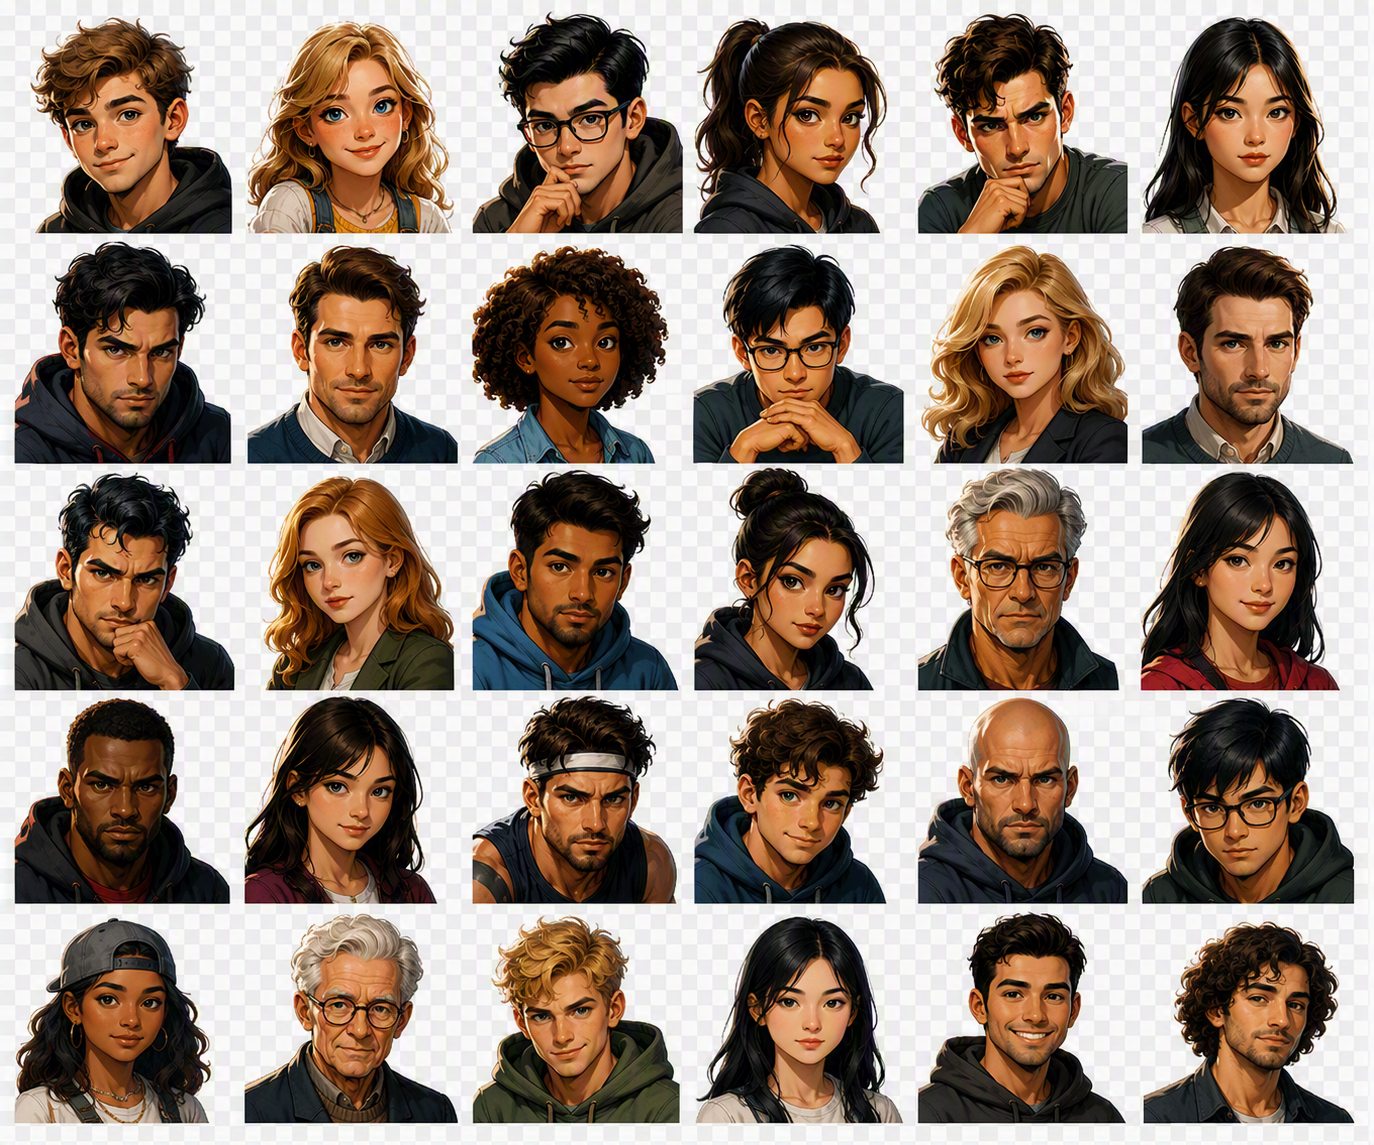
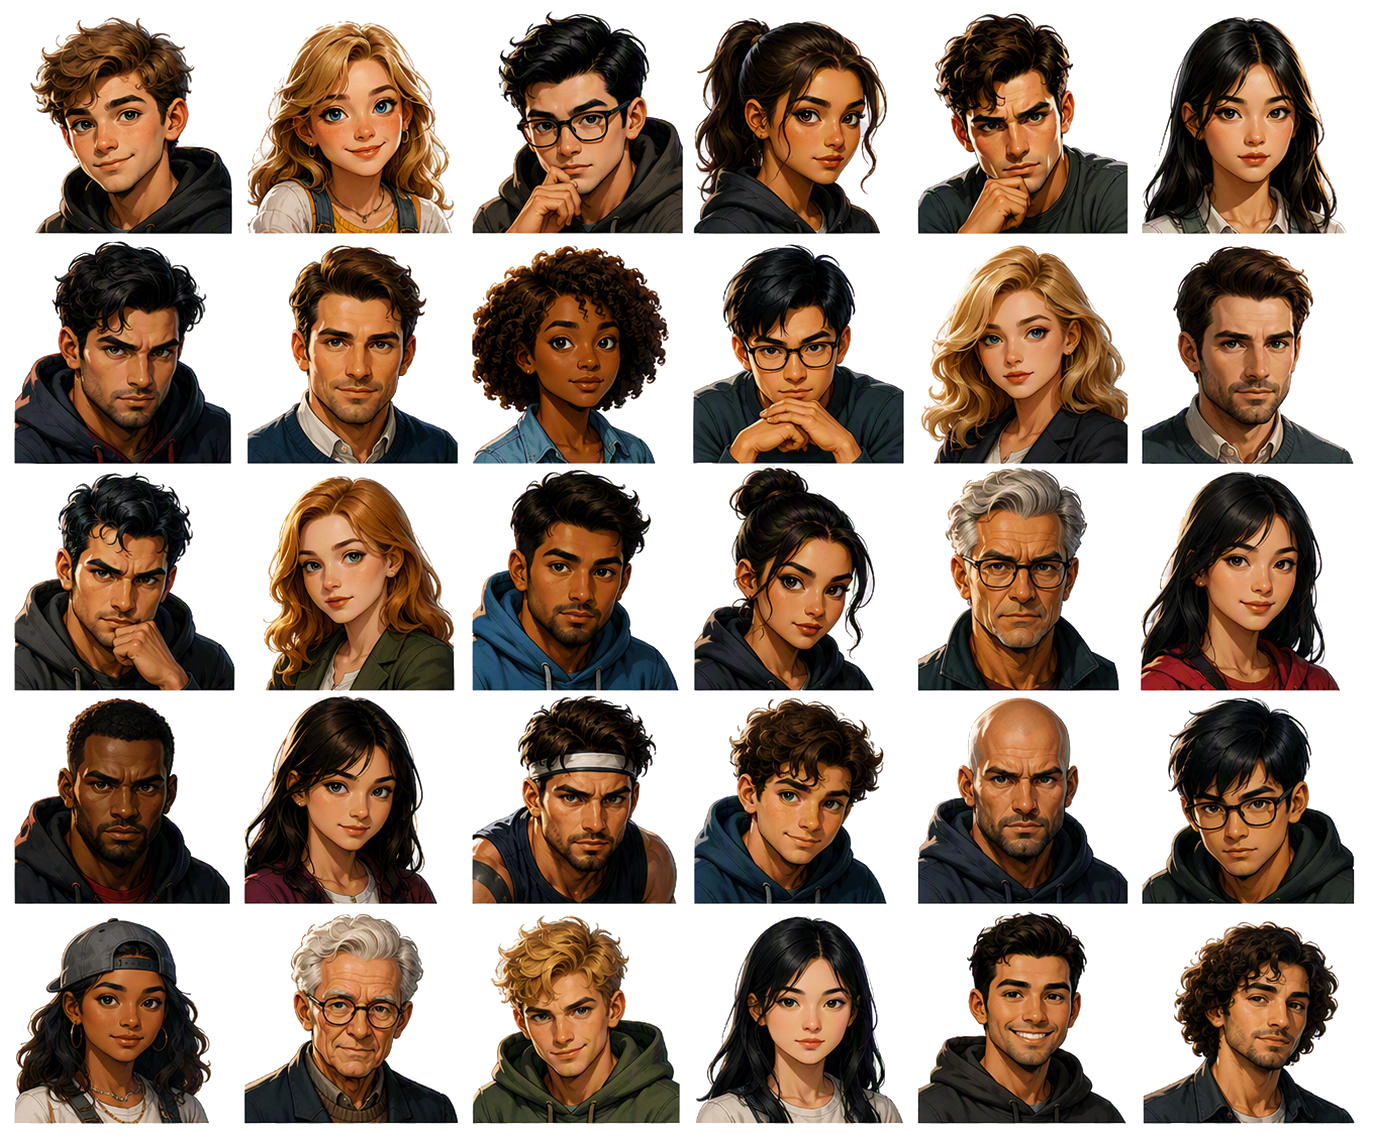
fix: readable links in dark mode, light portrait backdrop, in-app AI setup help
- Plain links had no style and fell back to the browser's blue and purple,
  unreadable on the dark theme; they now use the theme's primary colour.
- The coach and bot portrait sheets had a checkerboard baked into the pixels.
  scripts/clean-avatar-sheets.mjs makes it real transparency, and the avatars
  sit on a pale gradient (--avatar-backdrop) that stays light in dark mode.
- Settings > AI setup links to the step-by-step key guide, the free-usage
  option and the key-safety page.

diff --git a/apps/web/src/features/settings/SettingsPage.test.tsx b/apps/web/src/features/settings/SettingsPage.test.tsx
@@ -51,6 +51,18 @@ describe('SettingsPage', () => {
     expect(screen.getByLabelText('Voice model (optional)')).toHaveValue('gpt-4o-mini-tts');
   });
 
+  test('points the AI setup at the step-by-step guide, the free option and the key-safety page, in a new tab', async () => {
+    const fetchMock = vi.fn((path: string, init?: RequestInit) => defaultFetch(path, init) ?? (() => { throw new Error(`unexpected fetch: ${path}`); })());
+    renderSettings(fetchMock);
+    await screen.findByRole('heading', { name: 'Settings', level: 1 });
+    const setup = screen.getByRole('region', { name: 'API keys' });
+    const guide = within(setup).getByRole('link', { name: /step-by-step/i });
+    expect(guide).toHaveAttribute('href', '/openai-key');
+    expect(guide).toHaveAttribute('target', '_blank');
+    expect(within(setup).getByRole('link', { name: /free usage/i })).toHaveAttribute('href', '/openai-key#free');
+    expect(within(setup).getByRole('link', { name: /keeps? your key safe|how we handle/i })).toHaveAttribute('href', '/keys');
+  });
+
   test('saves the endpoint, models, key and unlock phrase as one setup, gated by a passing test, across the connect-then-unlock-phrase wizard', async () => {
     const testResponse = {
       protocol: 'openai-chat',

diff --git a/apps/web/src/features/settings/SettingsPage.tsx b/apps/web/src/features/settings/SettingsPage.tsx
@@ -15,6 +15,7 @@ import { ConfirmDialog } from '../../components/ConfirmDialog.js';
 import { useShowLegalMoveDots } from '../../hooks/useShowLegalMoveDots.js';
 import { useUnlockLlmSetup } from '../../hooks/useUnlockLlmSetup.js';
 import { BandSelect } from './BandSelect.js';
+import { AiSetupHelp } from './AiSetupHelp.js';
 import { LlmSetupForm } from './LlmSetupForm.js';
 import { CoachPersonaSelect } from './CoachPersonaSelect.js';
 import { EngineModeSelect } from './EngineModeSelect.js';
@@ -225,6 +226,7 @@ export function SettingsPage(): ReactNode {
       <section id="settings-api-keys" aria-label="API keys" className="card">
         <h2>AI setup</h2>
         <p>Your endpoint and API key are tested, encrypted with your unlock phrase, and kept available only while you are active. We never show the key again.</p>
+        <AiSetupHelp />
         <LlmSetupForm
           key={`${llmSetup.configured}-${llmSetup.unlocked}-${llmSetup.protocol ?? 'none'}`}
           status={llmSetup}

diff --git a/apps/web/src/styles/base.test.ts b/apps/web/src/styles/base.test.ts
@@ -1,0 +1,19 @@
+import { readFileSync } from 'node:fs';
+import { dirname, join } from 'node:path';
+import { fileURLToPath } from 'node:url';
+import { describe, expect, test } from 'vitest';
+
+const css = readFileSync(join(dirname(fileURLToPath(import.meta.url)), 'base.css'), 'utf8');
+
+/** The browser's own link colours are #0000ee and #551a8b, unreadable on the
+ * dark theme. Any link without a class of its own must take the theme's colour,
+ * visited or not. */
+describe('base link styling', () => {
+  test('colours every plain link, visited or not, from the theme primary', () => {
+    expect(css).toMatch(/\ba,\s*a:visited\s*\{[^}]*color:\s*var\(--color-primary\)/);
+  });
+
+  test('has a hover colour from the theme too', () => {
+    expect(css).toMatch(/a:hover\s*\{[^}]*color:\s*var\(--color-primary-hover\)/);
+  });
+});

diff --git a/apps/web/src/features/settings/AiSetupHelp.tsx b/apps/web/src/features/settings/AiSetupHelp.tsx
@@ -1,0 +1,16 @@
+import type { ReactNode } from 'react';
+
+/** Where to send someone who has no AI key yet. The pages are the public,
+ * logged-out ones (apps/web/public), opened in a new tab so a half-filled
+ * setup form is not lost. */
+export function AiSetupHelp(): ReactNode {
+  return (
+    <p className="settings-page__hint">
+      No key yet? Follow the{' '}
+      <a href="/openai-key" target="_blank" rel="noopener noreferrer">step-by-step guide to getting one</a>
+      , which also covers{' '}
+      <a href="/openai-key#free" target="_blank" rel="noopener noreferrer">free usage and what it costs in privacy</a>
+      . <a href="/keys" target="_blank" rel="noopener noreferrer">How we handle your key</a> explains what we do and cannot promise.
+    </p>
+  );
+}

diff --git a/apps/web/src/components/BotAvatar.css b/apps/web/src/components/BotAvatar.css
@@ -8,10 +8,10 @@
   border: 2px solid var(--color-surface);
   border-radius: 50%;
   background-color: var(--color-surface-strong);
-  background-image: url('/brand/bots.png');
+  background-image: url('/brand/bots.png'), var(--avatar-backdrop);
   background-repeat: no-repeat;
-  background-size: var(--bot-avatar-size-x) var(--bot-avatar-size-y);
-  background-position: var(--bot-avatar-x) var(--bot-avatar-y);
+  background-size: var(--bot-avatar-size-x) var(--bot-avatar-size-y), 100% 100%;
+  background-position: var(--bot-avatar-x) var(--bot-avatar-y), 0 0;
   box-shadow: 0 1px 3px rgb(18 28 22 / 18%), 0 0 0 1px rgb(18 28 22 / 8%);
   vertical-align: middle;
 }

diff --git a/apps/web/src/components/CoachAvatar.css b/apps/web/src/components/CoachAvatar.css
@@ -10,10 +10,10 @@
   border: 2px solid var(--color-surface);
   border-radius: 50%;
   background-color: var(--color-surface-strong);
-  background-image: url('/brand/coaches.png');
+  background-image: url('/brand/coaches.png'), var(--avatar-backdrop);
   background-repeat: no-repeat;
-  background-size: 400% 400%;
-  background-position: var(--coach-avatar-x) var(--coach-avatar-y);
+  background-size: 400% 400%, 100% 100%;
+  background-position: var(--coach-avatar-x) var(--coach-avatar-y), 0 0;
   box-shadow: 0 1px 3px rgb(18 28 22 / 18%), 0 0 0 1px rgb(18 28 22 / 8%);
   vertical-align: middle;
 }

diff --git a/apps/web/src/styles/tokens.css b/apps/web/src/styles/tokens.css
@@ -22,6 +22,11 @@
   --color-primary-tint: #f3f8f2;
   --color-on-primary: #ffffff;
 
+  /* The gradient behind a coach or bot portrait. The sheets are cut-outs with a
+   * light sticker outline, which looks wrong on anything but a pale backdrop, so
+   * this stays light in the dark theme too. */
+  --avatar-backdrop: linear-gradient(155deg, #f3f8ef 0%, #fbf1dc 100%);
+
   --color-gold: #b9852f;
   --color-gold-soft: #f7eedd;
 

diff --git a/apps/web/src/styles/base.css b/apps/web/src/styles/base.css
@@ -25,6 +25,18 @@ body {
   -webkit-font-smoothing: antialiased;
 }
 
+/* Without this a plain link is the browser's #0000ee (#551a8b once visited),
+ * which cannot be read on the dark theme. Links with a class of their own (buttons,
+ * nav items) set their colour and win over this element rule. */
+a,
+a:visited {
+  color: var(--color-primary);
+}
+
+a:hover {
+  color: var(--color-primary-hover);
+}
+
 h1,
 h2,
 h3 {
